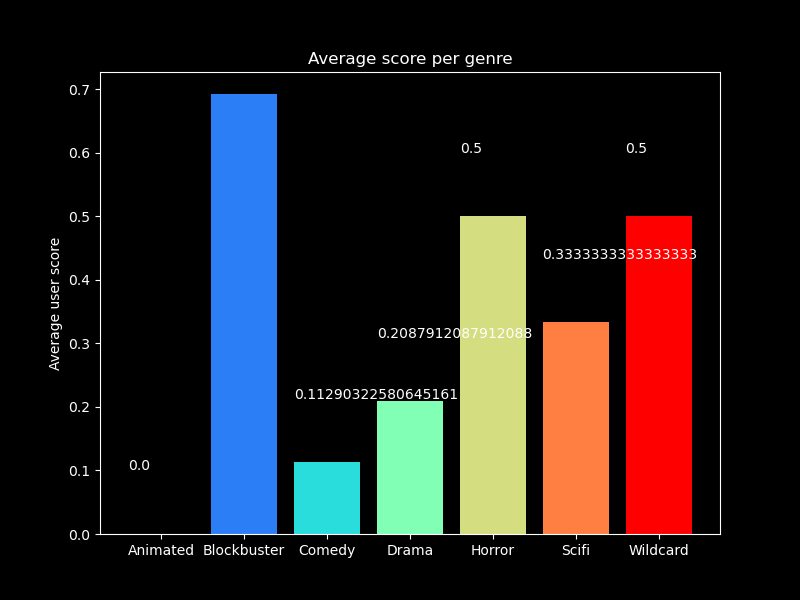
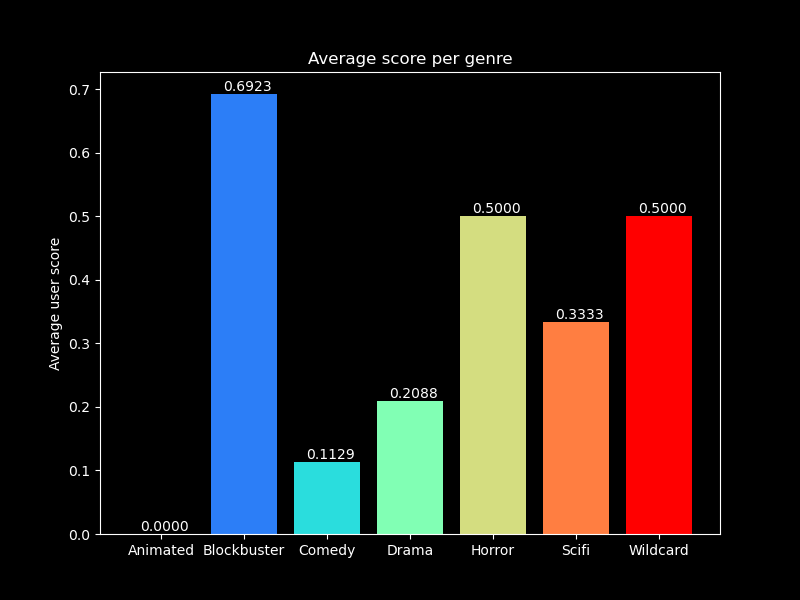
Fixing genre static bar plot

diff --git a/plots.py b/plots.py
@@ -83,7 +83,7 @@ def get_char_counts(dataframe):
 
 
 # plot bar chart
-def plot_bar(keys, values, title, ylabel, filename, save_dir):
+def plot_bar(keys, values, title, ylabel, filename, save_dir, feature):
     plt.style.use("dark_background")
     fig, ax = plt.subplots(figsize=(8, 6))
     colours = cm.rainbow(np.linspace(0, 1, len(keys)))
@@ -93,8 +93,11 @@ def plot_bar(keys, values, title, ylabel, filename, save_dir):
     ax.set_ylabel(ylabel)
 
     for i in range(len(values)):
-        #ax.annotate(f'{values[i]:.04f}', (i-0.25, values[i]+0.005))  # avg score per genre
-        ax.annotate(f'{values[i]}', (i-0.4, values[i] + 0.1))  # first letter
+        if feature == "genre":
+            ax.annotate(f'{values[i]:.04f}', (i-0.25, values[i]+0.005))  # avg score per genre
+
+        if feature == "letter":
+            ax.annotate(f'{values[i]}', (i-0.4, values[i] + 0.1))  # first letter
         #ax.annotate(f'{genre_score_averages[i]:.04f}', (i - 0.1, genre_score_averages[i] + 0.001))
 
     plt.savefig(os.path.join(save_dir, filename))
@@ -190,7 +193,8 @@ if __name__ == "__main__":
         title="Average score per genre",
         ylabel="Average user score",
         filename="bar_avg_score",
-        save_dir=VISUALS_DIR
+        save_dir=VISUALS_DIR,
+        feature="genre"
     )
     #"""
 
@@ -249,7 +253,8 @@ if __name__ == "__main__":
         title="Count by 'first character'",
         ylabel="",
         filename="bar_firstChar",
-        save_dir=VISUALS_DIR
+        save_dir=VISUALS_DIR,
+        feature="letter"
     )
     #"""
     quit()
